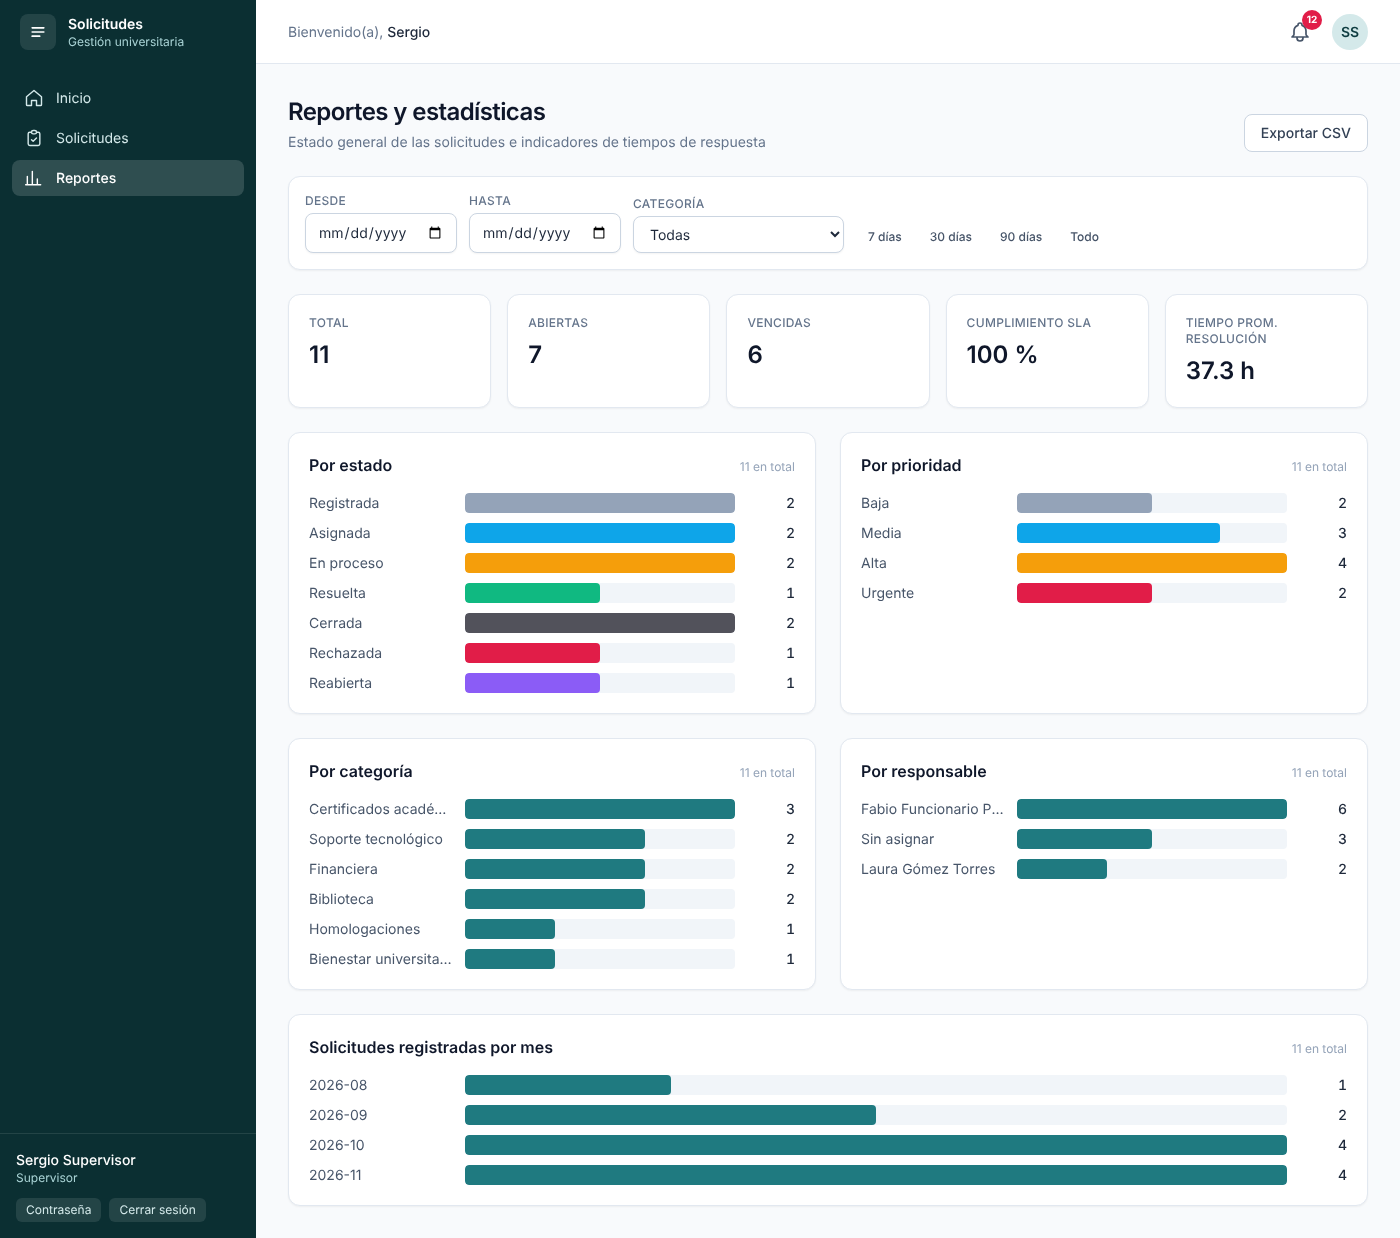
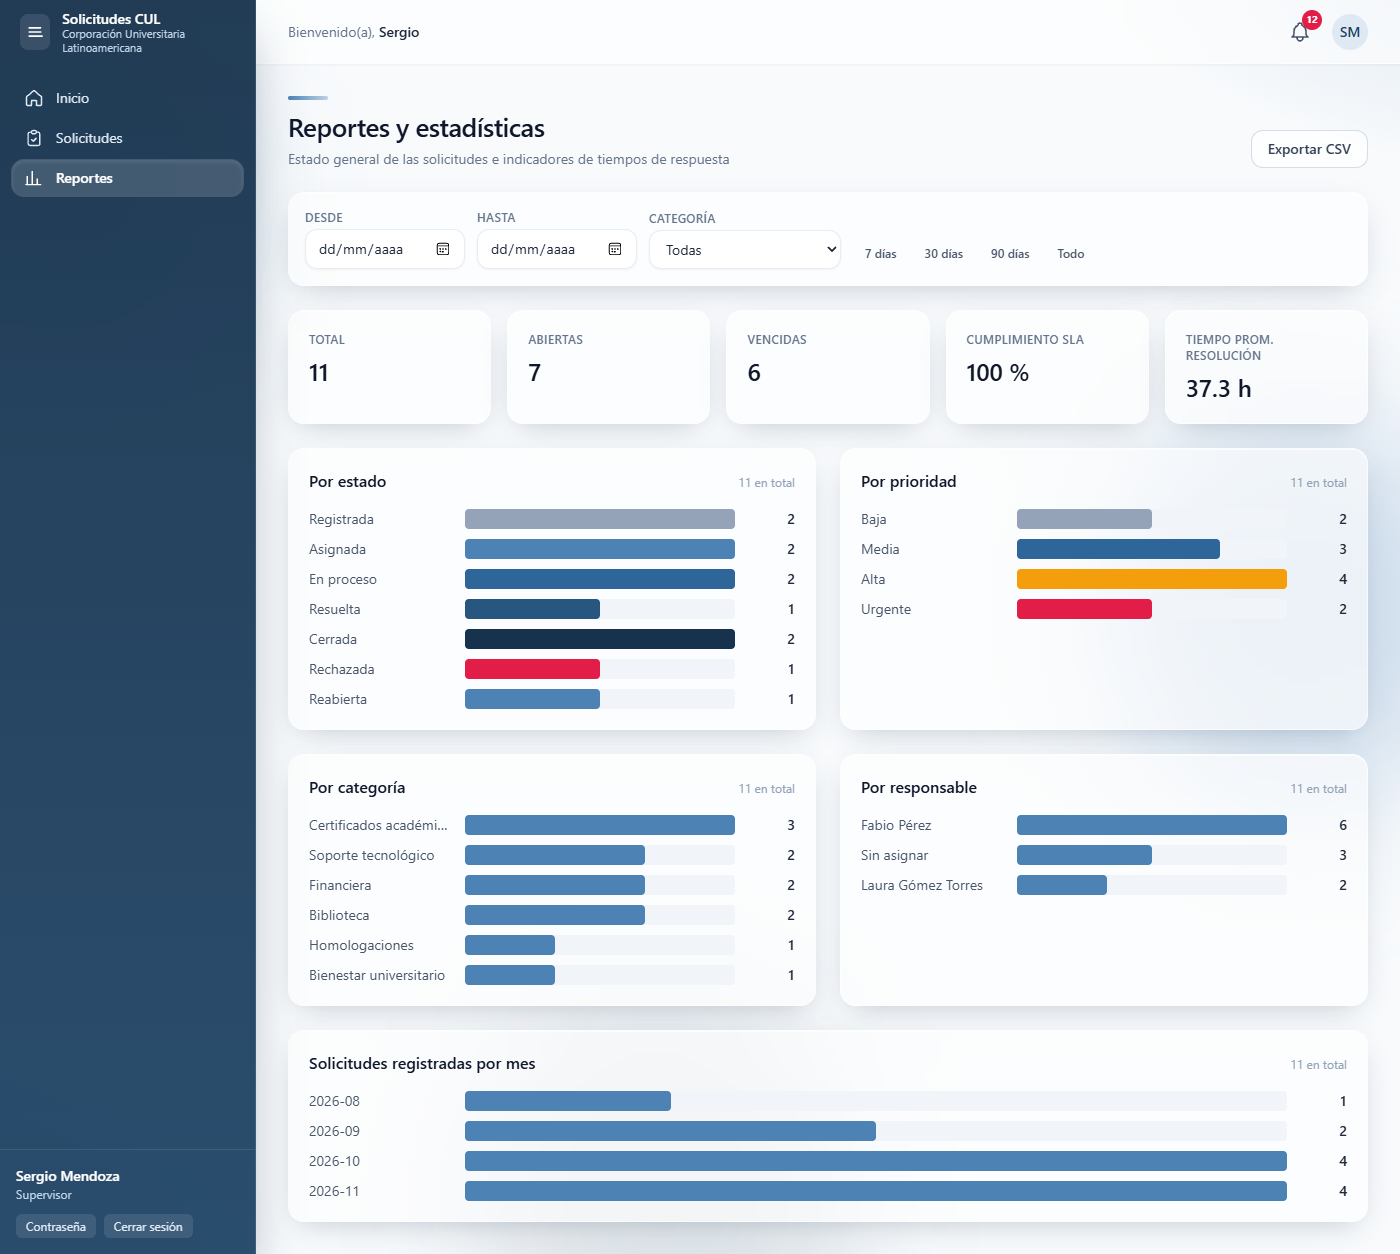
Actualizacion de documentacion

diff --git a/frontend/src/components/Layout.svelte b/frontend/src/components/Layout.svelte
@@ -137,7 +137,7 @@
 
         {#if panel}
           <button class="fixed inset-0 z-10 cursor-default" on:click={() => (panel = false)} aria-label="Cerrar"></button>
-          <div class="vidrio absolute right-0 top-12 z-20 w-[min(24rem,calc(100vw_-_2rem))] overflow-hidden rounded-2xl">
+          <div class="vidrio absolute right-0 top-12 z-20 w-[min(24rem,calc(100vw_-_2rem))] bg-white overflow-hidden rounded-2xl">
             <div class="flex items-center justify-between border-b border-white/60 px-4 py-3">
               <p class="text-sm font-semibold text-slate-900">Notificaciones</p>
               <a href="/notificaciones" use:link class="text-xs font-medium text-brand-600 hover:underline" on:click={() => (panel = false)}>Ver todas</a>

diff --git a/docs/05-informe-final.md b/docs/05-informe-final.md
@@ -13,7 +13,7 @@ Características principales:
 - Observaciones públicas e internas.
 - Notificaciones internas con contador y correo opcional, implementadas con el patrón **Observer**.
 - Reportes por estado, prioridad, categoría, responsable y mes; % de cumplimiento del SLA; tiempo promedio de resolución; exportación CSV.
-- Interfaz responsiva en español.
+- Interfaz responsiva en español, con la identidad de la Corporación Universitaria Latinoamericana.
 
 ## 5.2 Comparación con el alcance inicial
 
@@ -55,11 +55,11 @@ La arquitectura final es la diseñada en la [Entrega 3](03-diseno.md#31-arquitec
 - SQL manual en los controladores → capas con repositorios y ORM.
 - Reglas repartidas en condicionales → máquina de estados centralizada.
 - Comparación de contraseñas en texto plano como respaldo → solo bcrypt.
-- Ausencia de pruebas → 43 pruebas automatizadas con CI.
+- Ausencia de pruebas → 44 pruebas automatizadas con CI.
 
 ## 5.4 Resultados de las pruebas
 
-- **43 de 43 pruebas aprobadas**, con **92 %** de cobertura del backend (detalle en la [sección 4.5](04-implementacion-pruebas.md#45-casos-de-prueba-y-resultados)).
+- **44 de 44 pruebas aprobadas**, con **92 %** de cobertura del backend (detalle en la [sección 4.5](04-implementacion-pruebas.md#45-casos-de-prueba-y-resultados)).
 - Los **16 requisitos funcionales** y las **15 reglas de negocio** tienen al menos un caso de prueba.
 - Rendimiento: todas las consultas habituales responden en **≤ 0,14 s con 10.000 solicitudes** en PostgreSQL ([sección 4.6](04-implementacion-pruebas.md#46-prueba-de-rendimiento-rnf11)).
 - Complejidad ciclomática promedio **A (2,3)** y mantenibilidad **A** en todos los módulos.
@@ -160,4 +160,4 @@ Usuarios de demostración (contraseña **`Demo1234*`**). En la pantalla de inici
 2. *Categorías*: cree tipos de servicio con su dependencia y tiempo de respuesta en horas.
 3. *Parámetros*: prefijo del código, SLA por defecto, activar correo (requiere configurar SMTP en `.env`).
 
-Todos los usuarios ven sus avisos en la **campana** de la barra superior y pueden cambiar su contraseña desde el menú lateral.
+Todos los usuarios ven sus avisos en la **campana** de la barra superior y pueden cambiar su contraseña desde el menú lateral. En los campos de contraseña, el botón junto al texto permite mostrar u ocultar lo escrito.

diff --git a/docs/04-implementacion-pruebas.md b/docs/04-implementacion-pruebas.md
@@ -74,7 +74,7 @@ Cada prueba de integración crea una base de datos nueva en memoria con los dato
 
 ## 4.5 Casos de prueba y resultados
 
-**Resultado: 43 pruebas, 43 aprobadas (100 %). Cobertura del backend: 92 %.**
+**Resultado: 44 pruebas, 44 aprobadas (100 %). Cobertura del backend: 92 %.**
 
 | ID | Caso de prueba | Requisito / regla | Resultado esperado | Estado |
 |---|---|---|---|:-:|
@@ -117,13 +117,14 @@ Cada prueba de integración crea una base de datos nueva en memoria con los dato
 | CP41 | CERRADA no admite observaciones | RN06 | `permite_observaciones = False` | ✅ |
 | CP42 | El publicador notifica a todos los observadores | Patrón Observer | 2 notificaciones | ✅ |
 | CP43 | El evento excluye al actor, duplicados e inactivos | RF10 | Solo el destinatario válido | ✅ |
+| CP44 | El administrador cambia la contraseña de otro usuario | RF02 | 200; entra con la nueva y 401 con la anterior | ✅ |
 
 Ejecución:
 
 ```
 $ cd backend && pytest --cov=app
-43 passed in 6.7s
-TOTAL   1396 stmts   107 miss   92%
+44 passed in 6.0s
+TOTAL   1307 stmts    99 miss   92%
 ```
 
 ## 4.6 Prueba de rendimiento (RNF11)
@@ -148,13 +149,13 @@ Todas cumplen el objetivo de < 1 s. **Hallazgo y corrección:** el listado gener
 | Métrica | Valor | Herramienta |
 |---|---|---|
 | Líneas de código backend (sin comentarios ni vacías) | ≈ 1.800 | `wc` |
-| Líneas de código de pruebas | ≈ 340 | `wc` |
-| Líneas de código frontend (Svelte/JS) | ≈ 1.300 | `wc` |
+| Líneas de código de pruebas | ≈ 350 | `wc` |
+| Líneas de código frontend (Svelte/JS) | ≈ 1.600 | `wc` |
 | Clases principales del modelo OO (entidades) | 8 (`Rol`, `Usuario`, `Categoria`, `Solicitud`, `Observacion`, `Movimiento`, `Notificacion`, `Parametro`) | — |
 | Clases de dominio y servicios (estados, observadores, repositorios, servicios) | 29 | — |
 | Endpoints REST | 32 | FastAPI / OpenAPI |
 | Tablas de la BD | 8, con 9 restricciones CHECK | PostgreSQL |
-| Pruebas automatizadas | 43 (100 % aprobadas) | pytest |
+| Pruebas automatizadas | 44 (100 % aprobadas) | pytest |
 | Cobertura de código del backend | 92 % | pytest-cov |
 | Complejidad ciclomática promedio | **A (2,3)**; ninguna función de la aplicación supera el rango C | radon |
 | Índice de mantenibilidad | Todos los módulos en rango **A** | radon |

diff --git a/docs/01-inicio-planificacion.md b/docs/01-inicio-planificacion.md
@@ -87,8 +87,6 @@ Artefactos usados: product backlog (historias de usuario de la [Entrega 2](02-an
 
 ## 1.8 Cronograma
 
-> Ajuste las fechas de inicio según el calendario real del equipo. La entrega final es el **28 de noviembre de 2026**.
-
 | Iteración | Semanas | Entregable | Actividades principales |
 |---|---|---|---|
 | 0. Inicio | 1 | Entrega 1 | Definición del problema, alcance, actores, riesgos, cronograma, creación del repositorio |
@@ -120,13 +118,10 @@ gantt
 
 ## 1.9 Distribución de responsabilidades
 
-> Reemplace "Integrante 2" e "Integrante 3" por los nombres reales del equipo.
-
 | Integrante | Rol en el equipo | Responsabilidades principales |
 |---|---|---|
-| Juan David Bello | Líder técnico / backend | Arquitectura, modelo de datos, API, máquina de estados, pruebas del backend |
-| Integrante 2 | Analista / documentación | Requisitos, historias de usuario, casos de uso, diagramas UML, informe final |
-| Integrante 3 | Frontend / QA | Prototipos, interfaz Svelte, pruebas funcionales, evidencias, manual de usuario |
+| Juan David Bello | Líder técnico / backend | Arquitectura, modelo de datos, API, máquina de estados, pruebas del backend, prototipos, interfaz Svelte, pruebas funcionales |
+| Diego Ardila | Analista / documentación | Requisitos, historias de usuario, casos de uso, diagramas UML, informe final, evidencias, manual de usuario |
 
 Todos los integrantes participan en la revisión de cada entrega y deben conocer el funcionamiento completo para la sustentación.
 

diff --git a/README.md b/README.md
@@ -15,6 +15,7 @@ Proyecto final de **Ingeniería del Software** · 2026
 - **Notificaciones** internas y correo opcional (patrón *Observer*).
 - **Reportes** por estado, categoría, prioridad, responsable y periodo, con exportación a CSV.
 - Gestión de **usuarios, roles, categorías y parámetros**.
+- **Interfaz responsiva** con la identidad de la Corporación Universitaria Latinoamericana (logo y azul institucional) y opción de mostrar u ocultar la contraseña.
 
 ## Tecnologías
 
@@ -57,7 +58,7 @@ Las instrucciones completas están en el [manual de instalación y uso](docs/05-
 ```bash
 cd backend
 pip install -r requirements-dev.txt
-pytest --cov=app        # 43 pruebas · 92 % de cobertura
+pytest --cov=app        # 44 pruebas · 92 % de cobertura
 ```
 
 ## Estructura
@@ -96,8 +97,7 @@ pytest --cov=app        # 43 pruebas · 92 % de cobertura
 
 | Integrante | Rol |
 |---|---|
-| Juan David Bello | Backend / líder técnico |
-| _Integrante 2_ | Análisis y documentación |
-| _Integrante 3_ | Frontend y QA |
+| Juan David Bello | Backend |
+| Diego Ardila | Análisis y documentación |
 
 Docente: Kevin Villarreal Jiménez · Asignatura: Ingeniería del Software

diff --git a/docs/03-diseno.md b/docs/03-diseno.md
@@ -413,6 +413,9 @@ Criterios de diseño de interfaz:
 - **Acciones contextuales**: el detalle muestra únicamente los botones de las transiciones permitidas para ese usuario en ese estado (los calcula el backend con la máquina de estados).
 - **Estados con color consistente** en toda la aplicación (badge) y prioridad con indicador de color.
 - **Vencidas resaltadas en rojo** para priorizar la atención.
+- **Identidad institucional**: logo de la Corporación Universitaria Latinoamericana en el inicio de sesión y paleta de azul institucional (`tailwind.config.js`).
+- **Diseño adaptable**: en pantallas pequeñas los listados de solicitudes y usuarios se muestran como tarjetas apiladas y las ventanas emergentes se anclan en la parte inferior.
+- **Contraseñas**: los campos del inicio de sesión, del cambio de contraseña y del formulario de usuarios permiten mostrar u ocultar lo escrito.
 
 ## 3.7 Patrones de diseño
 
